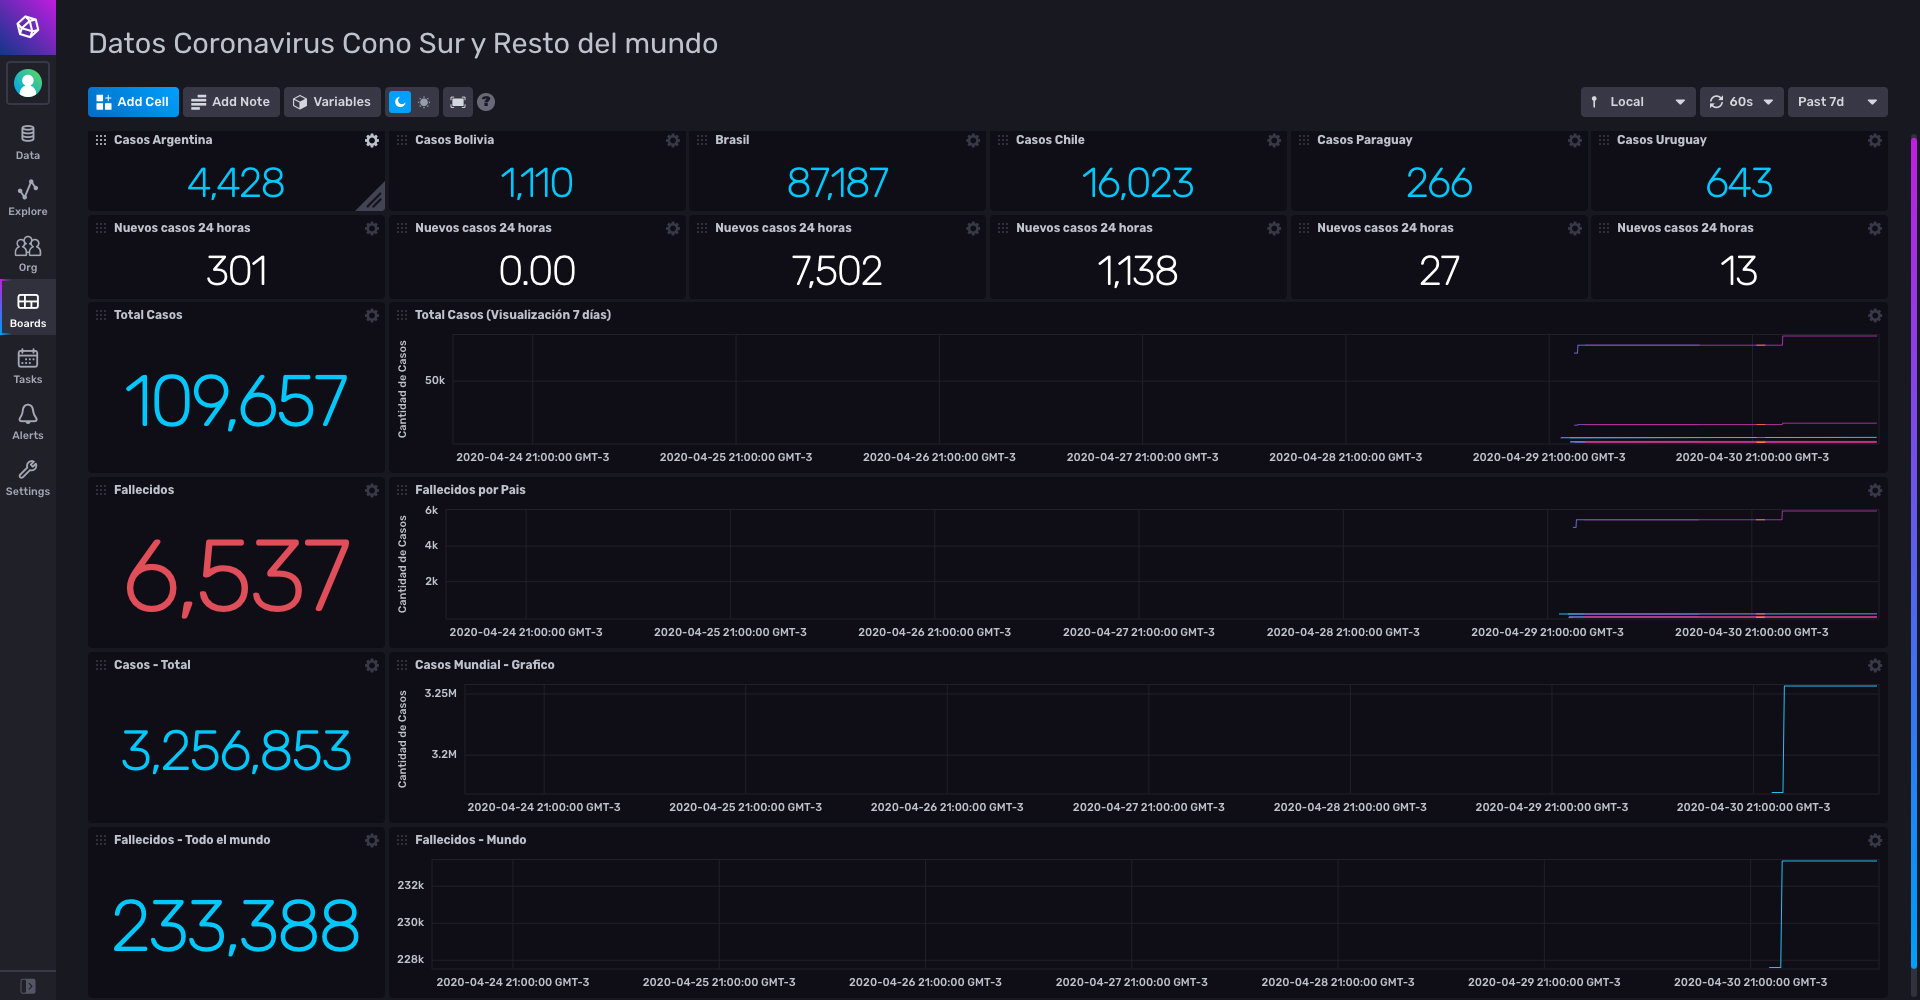
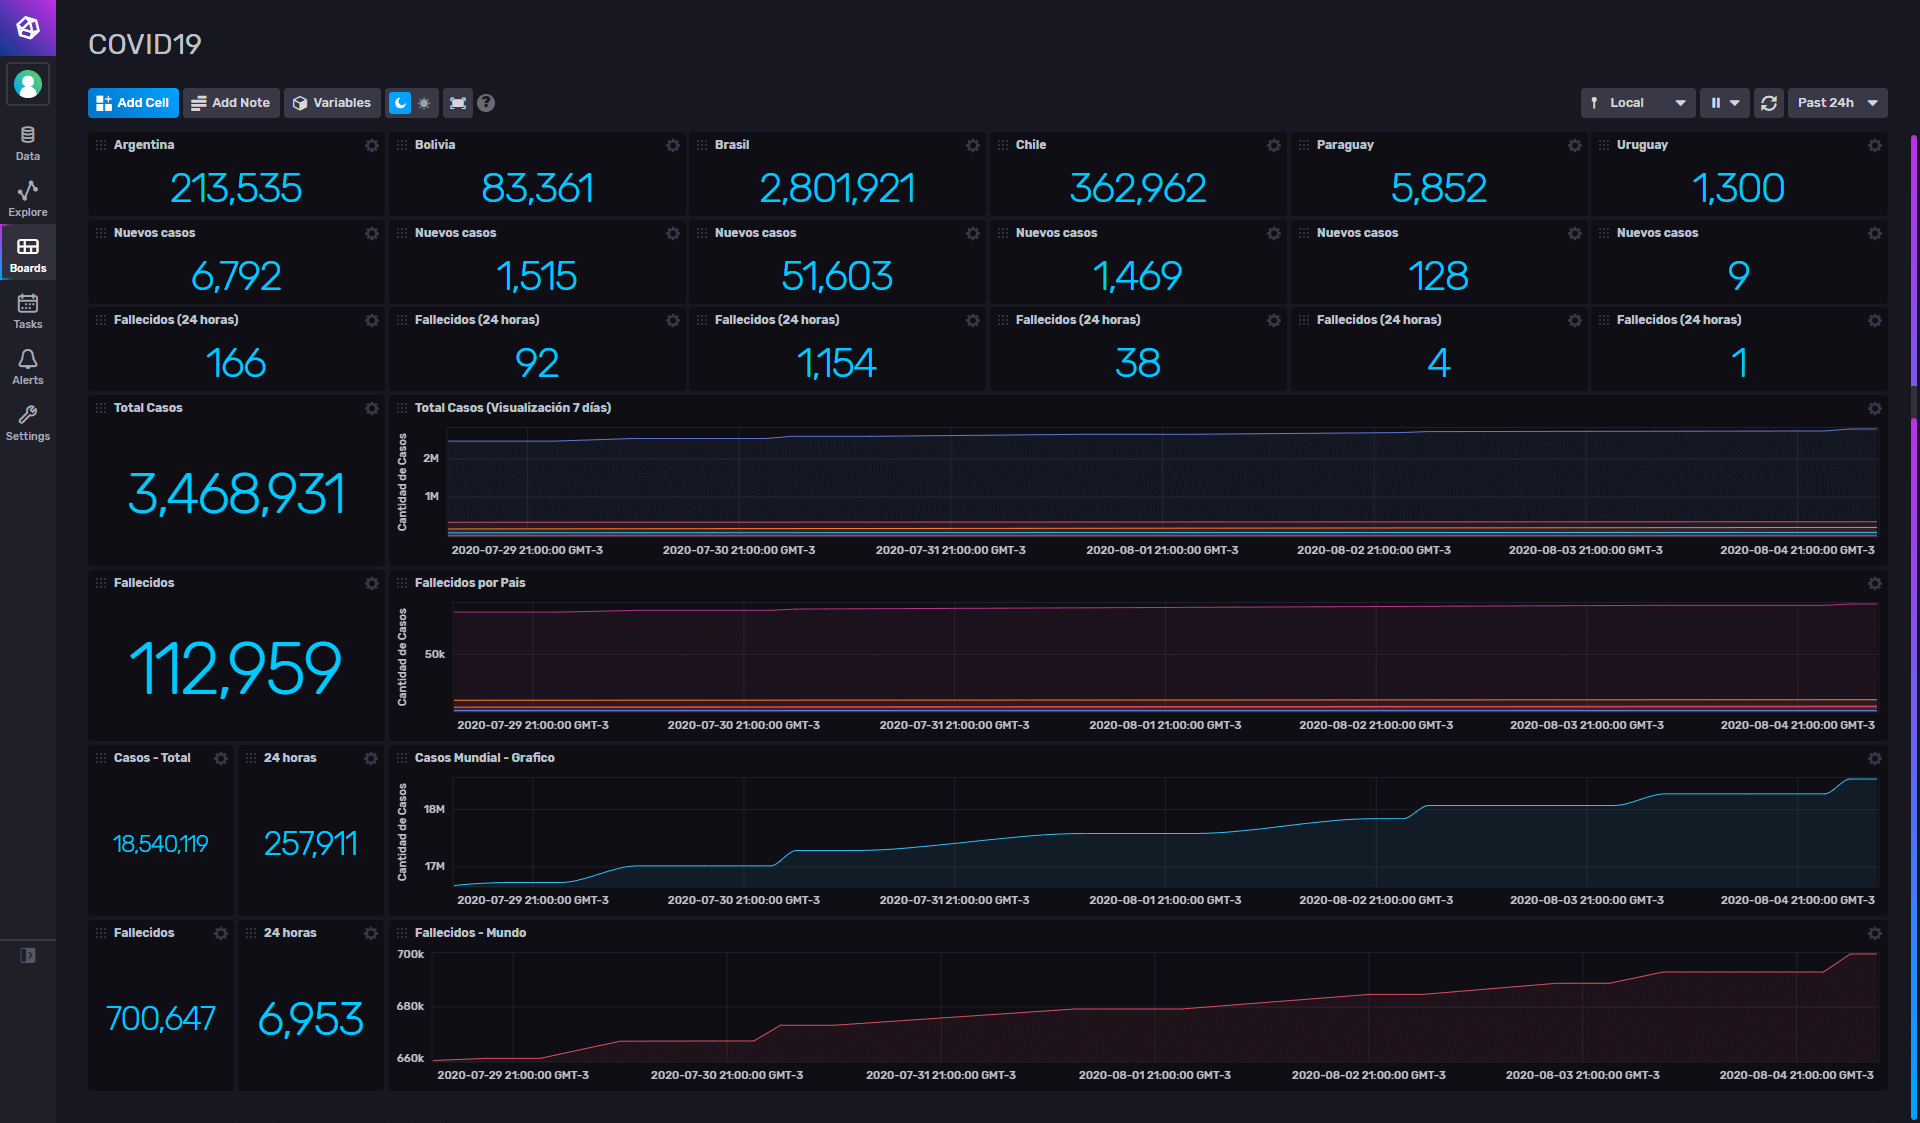
dashboard updated display more data

diff --git a/InfluxDBv2_Covid19_SouthAmerica/readme.md b/InfluxDBv2_Covid19_SouthAmerica/readme.md
@@ -2,7 +2,7 @@
 
 Provided by: Ignacio Van Droogenbroeck
 
-This Dashboard graph information about COVID-19 focused in Argentina, Bolivia, Brasil, Chile, Paraguay and Uruguay. Current data, new cases, graph about totals of cases and deaths. Also overall worldwide information about cases and deaths.  
+This Dashboard graph information about COVID-19 focused in Argentina, Bolivia, Brasil, Chile, Paraguay and Uruguay. Current data, new cases, graph about totals and new (24 hours) cases, deaths total and by country. Also overall worldwide information about total cases, new cases (24 hours), total deaths and new deaths (24 hours).  
 
 ![Dashboard Screenshot](screenshot.png)
 
